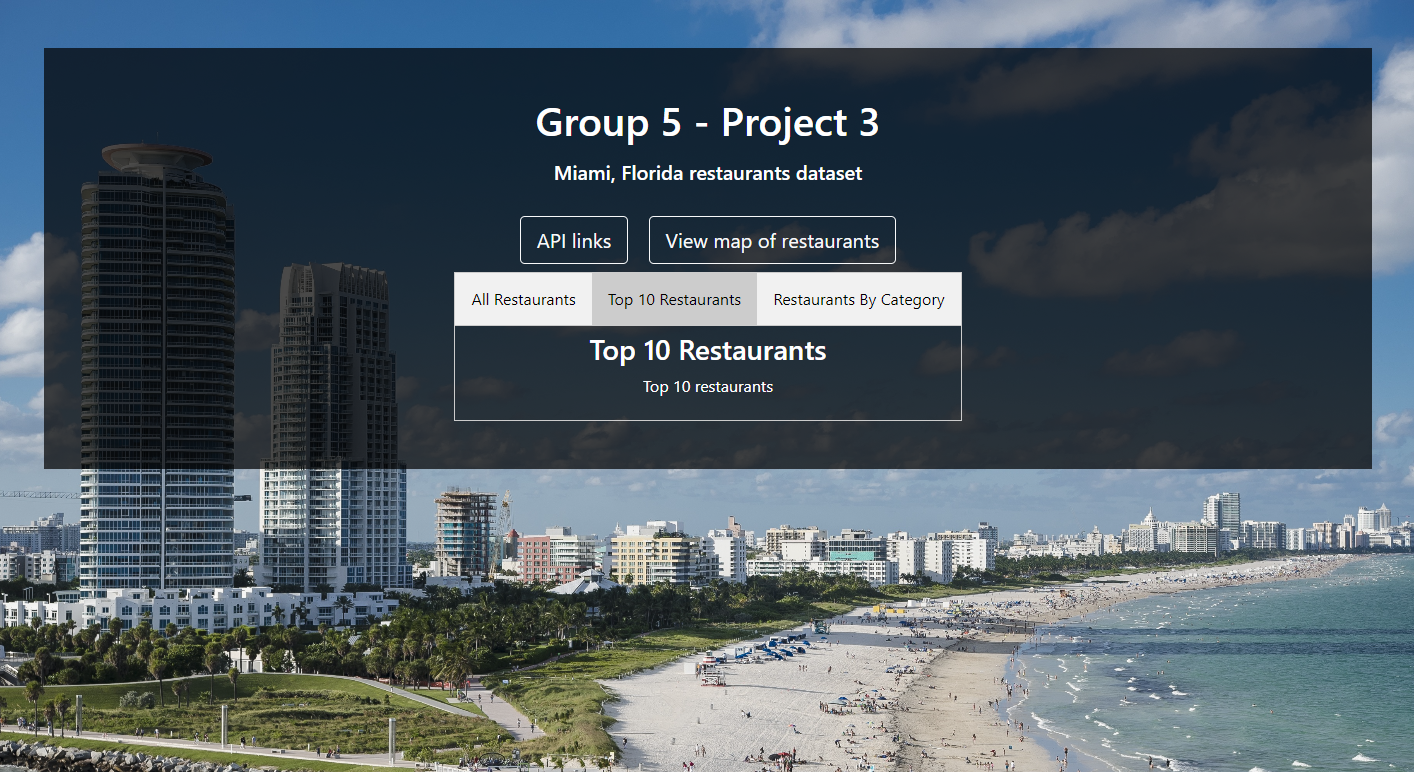
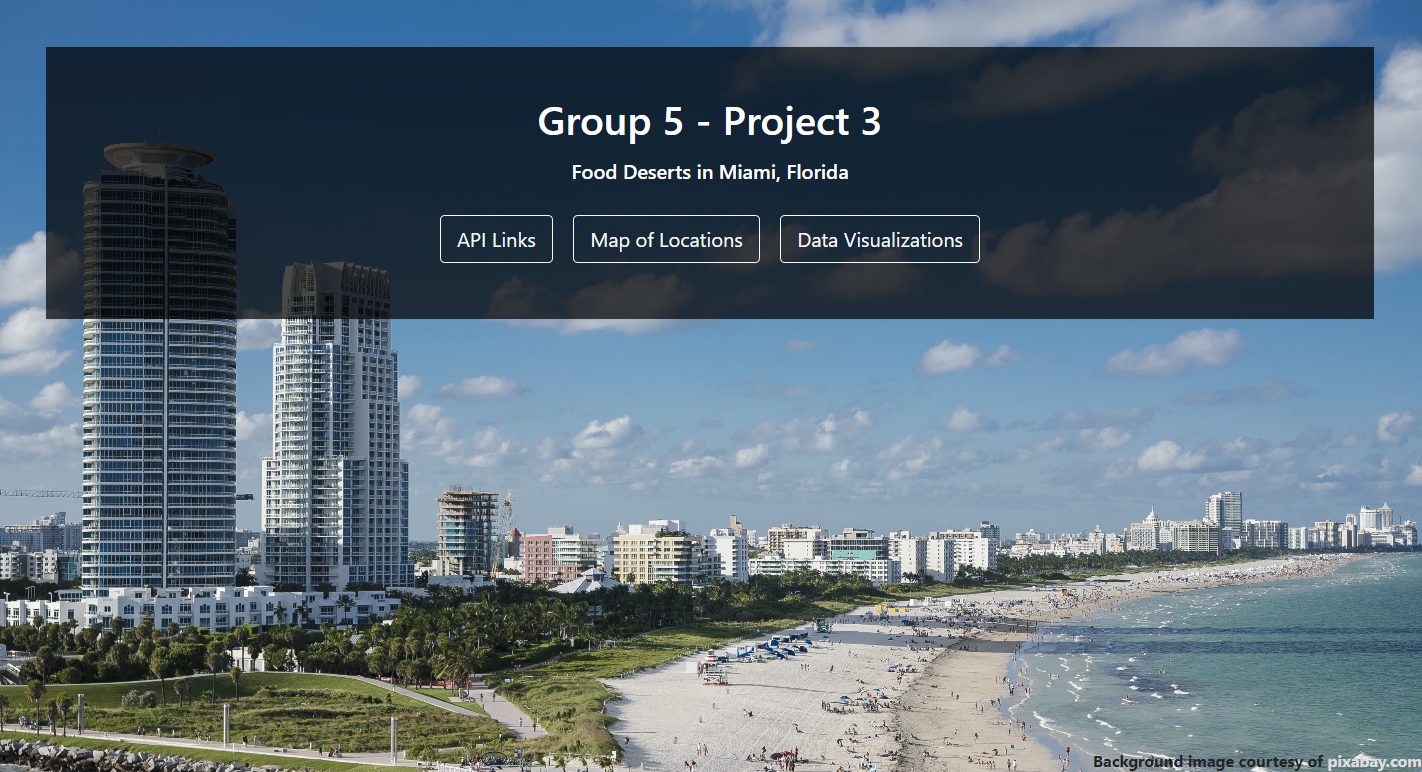
Update both index.html files and update two images

diff --git a/templates/index.html b/templates/index.html
@@ -45,7 +45,8 @@
       src="https://kit.fontawesome.com/1594df2c90.js"
       crossorigin="anonymous"
     ></script>
-
+    <!-- Plotly JS -->
+    <script src="https://cdn.plot.ly/plotly-latest.min.js"></script>
     <!-- Custom CSS -->
     <link rel="stylesheet" href="css/styles.css" />
 
@@ -125,7 +126,7 @@
               data-bs-toggle="modal"
               data-bs-target="#staticBackdrop2"
             >
-              Income Data
+              Data Visualizations
             </button>
 
             <!-- Modal -->
@@ -146,7 +147,7 @@
                       id="staticBackdropLabel2"
                       style="color: black"
                     >
-                      Economic Data
+                      Data Visualizations
                     </h5>
                     <button
                       type="button"
@@ -156,7 +157,8 @@
                     ></button>
                   </div>
                   <div class="modal-body">
-                    <div id="plots"></div>
+                    <div id="bar-graph"></div>
+                    <div id="pie-chart"></div>
                   </div>
                 </div>
               </div>
@@ -184,7 +186,7 @@
                   dataset
                 </h5>
                 <p>
-                  <a href="#" target="_blank">/all</a>
+                  <a href="/api/v1.0/all_locations" target="_blank">/all</a>
                 </p>
               </div>
               <div style="text-align: left" id="byCat" class="tabcontent">
@@ -192,9 +194,16 @@
                 <hr />
                 <h5>Access locations by category</h5>
                 <p>
-                  Categories: <a href="#" target="_blank">Restaurants only</a>,
-                  <a href="#" target="_blank">Fast food only</a>,
-                  <a href="#" target="_blank">Supermarkets</a>
+                  Categories:
+                  <a href="/api/v1.0/restaurants" target="_blank"
+                    >Restaurants only</a
+                  >,
+                  <a href="/api/v1.0/fast_food" target="_blank"
+                    >Fast food only</a
+                  >,
+                  <a href="/api/v1.0/supermarkets" target="_blank"
+                    >Supermarkets</a
+                  >
                 </p>
               </div>
               <div style="text-align: left" id="economic" class="tabcontent">
@@ -202,7 +211,9 @@
                 <hr />
                 <h5>Access income data by zipcode</h5>
                 <p>
-                  <a href="#" target="_blank">/Income data</a>
+                  <a href="/api/v1.0/income_data" target="_blank"
+                    >/Income data</a
+                  >
                 </p>
               </div>
             </div>
@@ -232,6 +243,8 @@
     <script src="js/scripts.js"></script>
     <!-- D3 Library -->
     <script src="https://d3js.org/d3.v7.min.js"></script>
+    <!-- Map and Plotly JS files -->
     <script src="js/map.js"></script>
+    <script src="js/plotly.js"></script>
   </body>
 </html>

diff --git a/index.html b/index.html
@@ -186,7 +186,7 @@
                   dataset
                 </h5>
                 <p>
-                  <a href="#" target="_blank">/all</a>
+                  <a href="/api/v1.0/all_locations" target="_blank">/all</a>
                 </p>
               </div>
               <div style="text-align: left" id="byCat" class="tabcontent">
@@ -194,9 +194,16 @@
                 <hr />
                 <h5>Access locations by category</h5>
                 <p>
-                  Categories: <a href="#" target="_blank">Restaurants only</a>,
-                  <a href="#" target="_blank">Fast food only</a>,
-                  <a href="#" target="_blank">Supermarkets</a>
+                  Categories:
+                  <a href="/api/v1.0/restaurants" target="_blank"
+                    >Restaurants only</a
+                  >,
+                  <a href="/api/v1.0/fast_food" target="_blank"
+                    >Fast food only</a
+                  >,
+                  <a href="/api/v1.0/supermarkets" target="_blank"
+                    >Supermarkets</a
+                  >
                 </p>
               </div>
               <div style="text-align: left" id="economic" class="tabcontent">
@@ -204,7 +211,9 @@
                 <hr />
                 <h5>Access income data by zipcode</h5>
                 <p>
-                  <a href="#" target="_blank">/Income data</a>
+                  <a href="/api/v1.0/income_data" target="_blank"
+                    >/Income data</a
+                  >
                 </p>
               </div>
             </div>
@@ -236,6 +245,6 @@
     <script src="https://d3js.org/d3.v7.min.js"></script>
     <!-- Map and Plotly JS files -->
     <script src="js/map.js"></script>
-    <script src="js/Plotly.js"></script>
+    <script src="js/plotly.js"></script>
   </body>
 </html>
